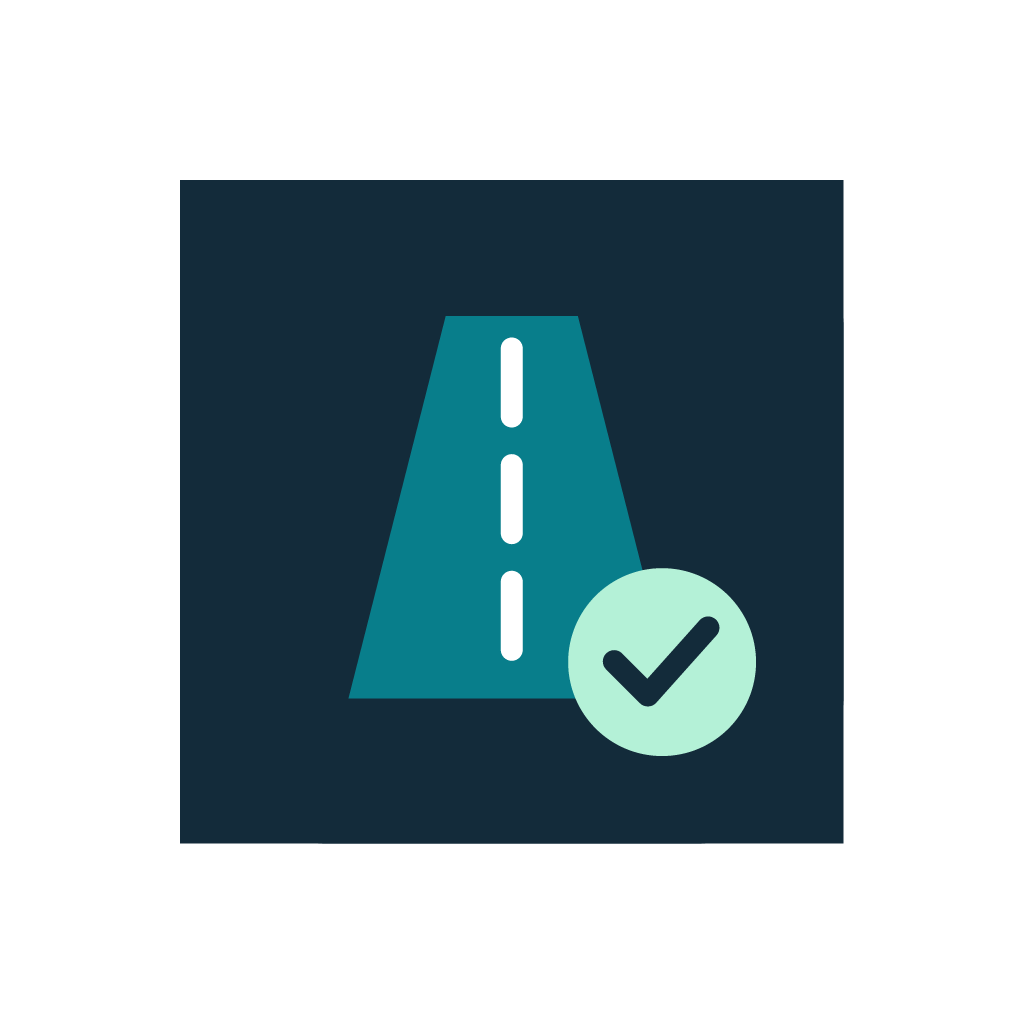
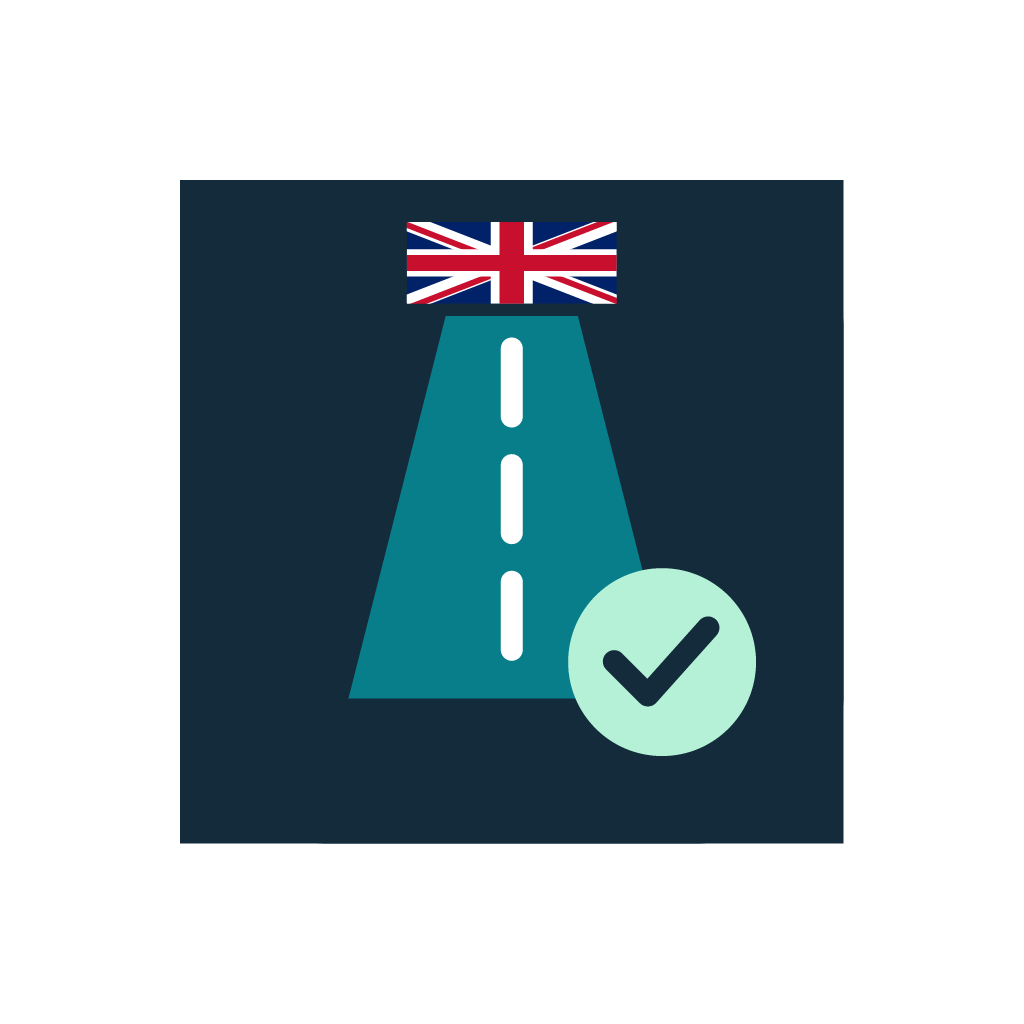
Feature UK flags across the app branding

Changed region(s): [[0.375, 0.2188, 0.625, 0.3125]]

diff --git a/src/components/HomeScreen.tsx b/src/components/HomeScreen.tsx
@@ -15,6 +15,7 @@ export default function HomeScreen({ session, progress, onQuickPractice, onResum
   onSigns, onFlashcards, onTimed, onArtworkReview }: Props) {
   const unfinished = session !== null && session.currentIndex < session.questionIds.length;
   return <View>
+    <View style={styles.countryBadge}><Image source={brandAssets['uk-flag']} accessibilityLabel="United Kingdom flag" style={{ width: 26, height: 16 }} /><Text style={styles.countryText}>UK CAR THEORY</Text></View>
     <Text accessibilityRole="header" style={styles.title}>Your road to test day</Text>
     <Text style={styles.subtitle}>Small sessions. Steady progress.</Text>
     <View style={styles.hero}>
@@ -58,6 +59,8 @@ function Tool({ title, detail, mark, onPress }: { title: string; detail: string;
 }
 
 const styles = StyleSheet.create({
+  countryBadge: { alignSelf: 'flex-start', flexDirection: 'row', alignItems: 'center', gap: 7, marginBottom: 9 },
+  countryText: { color: '#087E8B', fontSize: 10, fontWeight: '800', letterSpacing: 1 },
   title: { color: '#132B3A', fontSize: 22, lineHeight: 28, fontWeight: '900', marginTop: 3 },
   subtitle: { color: '#66758B', fontSize: 13, marginTop: 5, marginBottom: 16 },
   hero: { backgroundColor: '#132B3A', padding: 18, borderRadius: 19, marginBottom: 14 },

diff --git a/App.tsx b/App.tsx
@@ -289,7 +289,7 @@ function AppContent() {
         <View style={styles.header}>
           <Image accessible={false} source={brandAssets['brand-mark']} style={styles.brandMark} />
           <View style={styles.headerCopy}>
-            <Text style={styles.headerEyebrow}>LEARN THE ROAD</Text>
+            <View style={{ flexDirection: 'row', alignItems: 'center', gap: 6 }}><Image source={brandAssets['uk-flag']} accessibilityLabel="United Kingdom flag" style={{ width: 24, height: 14 }} /><Text style={styles.headerEyebrow}>UK THEORY TEST KIT</Text></View>
             <Text style={styles.headerTitle}>Theory Test Kit</Text>
           </View>
           {tab !== 'search' ? <Pressable accessibilityRole="button" accessibilityLabel="Search questions"

diff --git a/src/data/brandAssets.ts b/src/data/brandAssets.ts
@@ -1,5 +1,6 @@
 // Original project vector artwork; SVG masters live beside the PNGs.
 export const brandAssets = {
+  'uk-flag': require('../assets/brand/uk-flag.png'),
   'brand-mark': require('../assets/brand/brand-mark.png'),
   'home': require('../assets/brand/home.png'),
   'practice': require('../assets/brand/practice.png'),

diff --git a/docs/BRAND.md b/docs/BRAND.md
@@ -5,3 +5,5 @@ Original road-and-checkmark emblem, with navy (#132B3A), teal (#087E8B), mint (#
 Editable SVG masters and exported PNGs live in `src/assets/brand/`. The app icon is opaque and the Android adaptive foreground has additional safe-area padding. The same artwork appears in the app header. Seven matching outline icons replace font-dependent symbols in the study cards and bottom navigation.
 
 All branding is original project vector artwork. No competitor branding or government endorsement marks are used. Existing traffic-sign artwork and semantic answer-feedback colours retain their meaning. The name, navigation, question IDs and saved-data schema remain compatible.
+
+The Union Flag appears in the launcher emblem, shared header and Home country badge. UK branding does not expand the current GB-only question scope.
